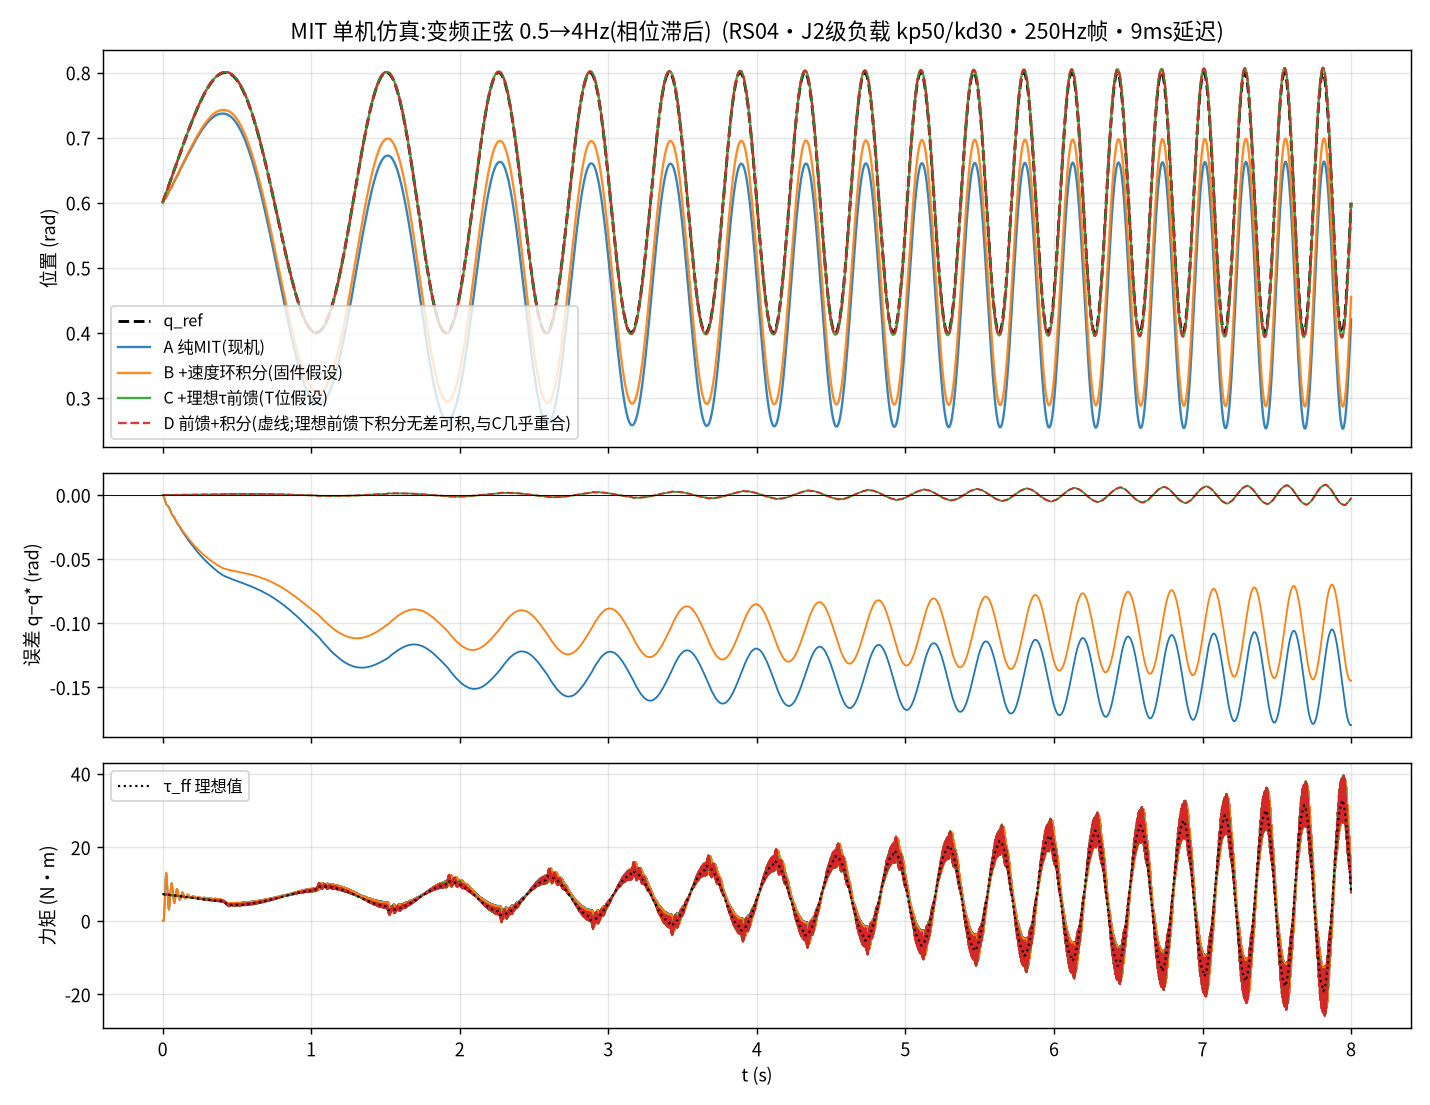
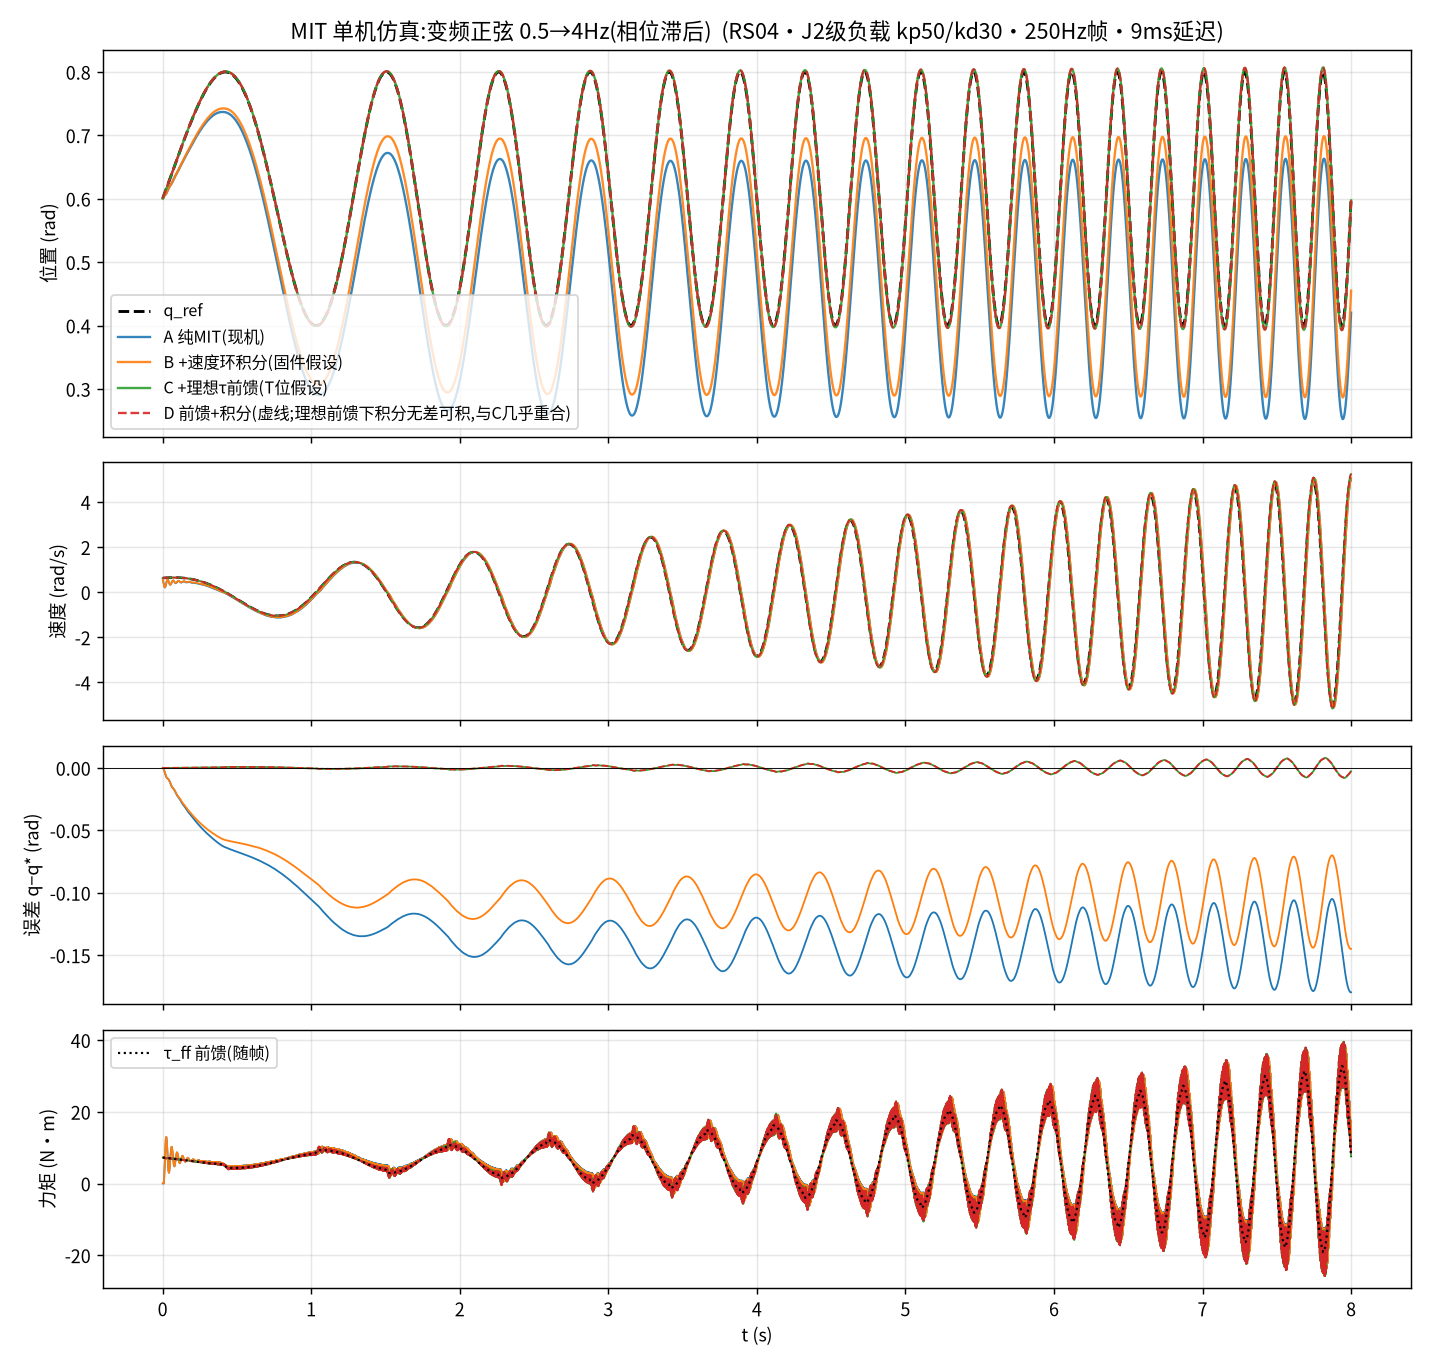
MIT单机仿真加速度行+前馈辨识误差注入:plot改四行图(位置/速度/误差/力矩,指标表加速度RMS);mit_motor_sim增ff_J/ff_b/ff_tc/ff_G辨识值组(-1=跟随真值),mit_ff_err.py跨目录对比(含速度误差行+跨配置一致性自检);结果:J−20%几乎无害(反馈环自吃瞬态缺矩,swing峰差1.69→2.11°),G+20%下垂1.61°≈ΔG/kp符号翻转,组合20%误差下C仍较A好4-5×(chirp 27.8 vs 136mrad);积分兜底=按刚度比收ki/(kp+ki)≈23%常值误差,对惯量误差≈0——A实验优先级指向:重力辨识精度>惯量(

Changed region(s): [[0.0, 0.0, 1.0, 0.9846], [0.1231, 0.5846, 0.1538, 0.6154]]

diff --git a/sckd_sim/python/tools/mit_ff_err.py b/sckd_sim/python/tools/mit_ff_err.py
@@ -1,0 +1,119 @@
+#!/usr/bin/env python3
+# 前馈辨识误差×积分兜底对比(2026-10-18):读多组 mit_motor_sim 输出目录
+# (标称=理想前馈;fferr_*=ff_J/ff_G 注入辨识误差),三行图——
+# ①swing 位置误差 ②swing 速度误差 ③step 全程误差(重力误差=保持段偏移)
+# 叠加各配置 C/D(基线只画 C,D≈C 重合;误差组 C 实线+D 虚线同色;
+# B 无前馈做橙色参考),打印指标表:step 保持段下垂/swing 峰差/
+# swing 速度峰差/chirp 位置RMS(变体×配置)。
+# 用法:mit_ff_err.py out.png 基线目录 标签=目录 [标签=目录 ...]
+# 例:mit_ff_err.py eval/reports/mit_ff_err.png eval/reports \
+#       "J−20%=eval/reports/fferr_J16" "G+20%=eval/reports/fferr_G96" \
+#       "组合=eval/reports/fferr_both"
+import sys
+
+import matplotlib
+matplotlib.use("Agg")
+import matplotlib.font_manager as fm
+for _f in ("/usr/share/fonts/opentype/noto/NotoSansCJK-Regular.ttc",
+           "/usr/share/fonts/opentype/noto/NotoSansCJK-Bold.ttc"):
+    try:
+        fm.fontManager.addfont(_f)
+    except Exception:
+        pass
+matplotlib.rcParams["font.family"] = ["Noto Sans CJK SC", "DejaVu Sans"]
+matplotlib.rcParams["axes.unicode_minus"] = False
+import matplotlib.pyplot as plt
+import numpy as np
+
+ERRC = ["C4", "C5", "C6"]  # 误差组配色(基线 C=绿 C2,B 参考=C1 橙)
+VN = [("a", "A"), ("b", "B"), ("c", "C"), ("d", "D")]
+
+
+def load(d, scen):
+    return np.genfromtxt(f"{d}/mit_{scen}.csv", delimiter=",", names=True)
+
+
+def metrics(dirs):
+    """指标:step 4 保持段均值最大|下垂|°;swing[0.8,3.74] 峰差°/速度峰差;
+    chirp RMS mrad。返回 {标签: {变体: (sag, pk, vpk, rms)}}"""
+    out = {}
+    for lab, dd in dirs:
+        st, sw, ch = load(dd, "step"), load(dd, "swing"), load(dd, "chirp")
+        t = st["t"]
+        m = {}
+        for tag, _ in VN:
+            sag = max(abs(np.degrees(np.mean(st[f"err_{tag}"][(t >= t1 - 0.3) & (t <= t1 - 0.01)])))
+                      for t1 in (1.0, 3.0, 5.0, 6.0))
+            msw = (sw["t"] >= 0.8) & (sw["t"] <= 3.74)
+            pk = np.degrees(np.max(np.abs(sw[f"err_{tag}"][msw])))
+            vpk = np.max(np.abs(sw[f"dq_{tag}"][msw] - sw["dq_ref"][msw]))
+            rms = float(np.sqrt(np.mean(ch[f"err_{tag}"][ch["t"] >= 0.3] ** 2))) * 1e3
+            m[tag] = (sag, pk, vpk, rms)
+        out[lab] = m
+    return out
+
+
+def main(out_png, base_dir, pairs):
+    dirs = [("理想", base_dir)] + pairs
+    fig, (a1, a2, a3) = plt.subplots(3, 1, figsize=(11, 11),
+                                     gridspec_kw={"height_ratios": [2, 2, 2]})
+    sw_b, st_b = load(base_dir, "swing"), load(base_dir, "step")
+
+    # ①swing 位置误差 ②swing 速度误差
+    for ax, is_vel, ylab in ((a1, False, "swing 位置误差 q−q* (rad)"),
+                             (a2, True, "swing 速度误差 dq−dq* (rad/s)")):
+        ax.axhline(0, color="k", lw=0.5)
+        eb = sw_b["err_b"] if not is_vel else (sw_b["dq_b"] - sw_b["dq_ref"])
+        ax.plot(sw_b["t"], eb, color="C1", lw=0.9, alpha=0.55,
+                label="B 无前馈(参考)")
+        cb = sw_b["err_c"] if not is_vel else (sw_b["dq_c"] - sw_b["dq_ref"])
+        ax.plot(sw_b["t"], cb, color="C2", lw=1.5, label="C 理想前馈")
+        for i, (lab, dd) in enumerate(pairs):
+            sw = load(dd, "swing")
+            c = ERRC[i % len(ERRC)]
+            cc = sw["err_c"] if not is_vel else (sw["dq_c"] - sw["dq_ref"])
+            dd_ = sw["err_d"] if not is_vel else (sw["dq_d"] - sw["dq_ref"])
+            ax.plot(sw["t"], cc, color=c, lw=1.2, label=f"C {lab}")
+            ax.plot(sw["t"], dd_, color=c, ls="--", lw=1.2, alpha=0.75,
+                    label=f"D {lab}")
+        ax.set_ylabel(ylab); ax.grid(alpha=0.3); ax.legend(fontsize=8, ncol=3)
+    # ③step 全程误差(重力误差→保持段偏移)
+    a3.axhline(0, color="k", lw=0.5)
+    a3.plot(st_b["t"], st_b["err_b"], color="C1", lw=0.9, alpha=0.55,
+            label="B 无前馈(参考)")
+    a3.plot(st_b["t"], st_b["err_c"], color="C2", lw=1.5, label="C 理想前馈")
+    for i, (lab, dd) in enumerate(pairs):
+        st = load(dd, "step")
+        c = ERRC[i % len(ERRC)]
+        a3.plot(st["t"], st["err_c"], color=c, lw=1.2, label=f"C {lab}")
+        a3.plot(st["t"], st["err_d"], color=c, ls="--", lw=1.2, alpha=0.75,
+                label=f"D {lab}")
+    a3.set_ylabel("step 位置误差 (rad)"); a3.set_xlabel("t (s)")
+    a3.grid(alpha=0.3); a3.legend(fontsize=8, ncol=3)
+    a1.set_title("前馈辨识误差下的积分兜底量化(mit_motor_sim,J=0.2 G=8 kp50/kd30)")
+    fig.tight_layout()
+    fig.savefig(out_png, dpi=130)
+    plt.close(fig)
+
+    m = metrics(dirs)
+    print(f"{'配置':8s} {'变体':4s} {'下垂°':>7s} {'swing峰差°':>9s} "
+          f"{'速度峰差':>8s} {'chirp RMS mrad':>13s}")
+    for lab, _ in dirs:
+        for tag, vn in VN:
+            sag, pk, vpk, rms = m[lab][tag]
+            print(f"{lab:8s} {vn:4s} {sag:7.2f} {pk:9.2f} {vpk:8.3f} {rms:13.1f}")
+    # 一致性自检:A/B 不依赖前馈,各配置应完全一致
+    ref = m["理想"]["a"][0]
+    dif = max(abs(m[l]["a"][0] - ref) for l, _ in dirs)
+    print(f"[check] A 下垂跨配置最大差 {dif:.3f}°(应=0)")
+    print("saved:", out_png)
+
+
+if __name__ == "__main__":
+    if len(sys.argv) < 4:
+        sys.exit(__doc__)
+    pairs = []
+    for a in sys.argv[3:]:
+        eq = a.find("=")
+        pairs.append((a[:eq], a[eq + 1:]))
+    main(sys.argv[1], sys.argv[2], pairs)

diff --git a/sckd_sim/python/tools/plot_mit_motor.py b/sckd_sim/python/tools/plot_mit_motor.py
@@ -58,15 +58,19 @@ def lag_est(ref, y):
 
 def fig_scenario(d, scen, out_dir):
     t, qr = d["t"], d["q_ref"]
-    fig, (ax1, ax2, ax3) = plt.subplots(3, 1, figsize=(11, 8.5), sharex=True,
-                                        gridspec_kw={"height_ratios": [3, 2, 2]})
+    fig, (ax1, axv, ax2, ax3) = plt.subplots(
+        4, 1, figsize=(11, 10.5), sharex=True,
+        gridspec_kw={"height_ratios": [3, 2, 2, 2]})
     ax1.plot(t, qr, "k--", lw=1.6, label="q_ref")
+    axv.plot(t, d["dq_ref"], "k--", lw=1.4, label="dq_ref")
     for tag, lab, c, ls in VAR:
         ax1.plot(t, d[f"q_{tag}"], c, ls=ls, lw=1.3, alpha=0.9, label=lab)
+        axv.plot(t, d[f"dq_{tag}"], c, ls=ls, lw=1.0)
         ax2.plot(t, d[f"err_{tag}"], c, ls=ls, lw=1.0, label=lab)
         ax3.plot(t, d[f"tau_{tag}"], c, ls=ls, lw=1.0)
-    ax3.plot(t, d["tau_ff_ideal"], "k:", lw=1.2, label="τ_ff 理想值")
+    ax3.plot(t, d["tau_ff_ideal"], "k:", lw=1.2, label="τ_ff 前馈(随帧)")
     ax1.set_ylabel("位置 (rad)"); ax1.legend(loc="best", fontsize=9); ax1.grid(alpha=0.3)
+    axv.set_ylabel("速度 (rad/s)"); axv.grid(alpha=0.3)
     ax2.set_ylabel("误差 q−q* (rad)"); ax2.grid(alpha=0.3)
     ax2.axhline(0, color="k", lw=0.5)
     ax3.set_ylabel("力矩 (N·m)"); ax3.set_xlabel("t (s)")
@@ -79,7 +83,7 @@ def fig_scenario(d, scen, out_dir):
 
 
 def main(csv_dir, out_dir):
-    print(f"{'场景':6s} {'变体':34s} {'RMS rad':>8s} {'max rad':>8s}")
+    print(f"{'场景':6s} {'变体':34s} {'RMS rad':>8s} {'max rad':>8s} {'速度RMS':>8s}")
     for scen in ("step", "chirp", "swing"):
         d = load(f"{csv_dir}/mit_{scen}.csv")
         t, qr = d["t"], d["q_ref"]
@@ -89,7 +93,8 @@ def main(csv_dir, out_dir):
             err = d[f"err_{tag}"]
             errs[tag] = err
             r, mx = rms_max(t, err)
-            print(f"{scen:6s} {lab:34s} {r:8.4f} {mx:8.4f}")
+            vr = float(np.sqrt(np.mean((d[f"dq_{tag}"][t >= 0.3] - d["dq_ref"][t >= 0.3]) ** 2)))
+            print(f"{scen:6s} {lab:34s} {r:8.4f} {mx:8.4f} {vr:8.4f}")
         if scen == "step":  # 各保持段末 300ms 稳态下垂(°)
             print("  保持段稳态误差(°, 末300ms均值):")
             for name, t1 in (("hold0.6@0.7-1.0s", 1.0), ("hold−0.4@2.7-3.0s", 3.0),

diff --git a/sckd_sim/cpp/apps/mit_motor_sim.cpp b/sckd_sim/cpp/apps/mit_motor_sim.cpp
@@ -67,6 +67,9 @@ struct Cfg {
   double ti_max = 12.0;  // 积分项力矩限幅 N·m
   int delay_ms = 9;      // 命令延迟(motors.json)
   int frame_ms = 4;      // 发帧周期 4ms=250Hz
+  // 前馈辨识值(-1=跟随对象真值=理想前馈;注入辨识误差做 B 实验用:
+  // 真机上这组来自 A 实验辨识表,与对象真值的偏差即辨识误差)
+  double ffJ = -1, ffb = -1, fftc = -1, ffG = -1;
 };
 
 struct Plant {
@@ -194,9 +197,12 @@ void run_scenario(const std::string& sc, const std::string& outdir,
   for (int ms = 1; ms <= n_ms && f; ++ms) {
     const double t = ms * 1e-3;
     const auto [qr, dqr, ddqr] = RefAt(sc, t);
-    // 理想 τ 前馈(参考逆动力学;C/D 随帧量化下发,A/B 无槽不发)
-    const double tff = c.J * ddqr + c.b * dqr + c.tc * std::tanh(dqr / 0.05) +
-                       c.G * std::cos(qr);
+    // τ 前馈(参考逆动力学,参数取辨识值组——缺省=真值即理想前馈;
+    // C/D 随帧量化下发,A/B 无槽不发;CSV 的 tau_ff_ideal 列=此随帧值)
+    const double fJ = c.ffJ < 0 ? c.J : c.ffJ, fb = c.ffb < 0 ? c.b : c.ffb;
+    const double ftc = c.fftc < 0 ? c.tc : c.fftc, fG = c.ffG < 0 ? c.G : c.ffG;
+    const double tff = fJ * ddqr + fb * dqr + ftc * std::tanh(dqr / 0.05) +
+                       fG * std::cos(qr);
     if ((ms - 1) % c.frame_ms == 0) {  // 250Hz 发帧(量化)
       for (int k = 0; k < kNV; ++k) {
         dr[k].fr.p = quant16(qr, -12.57, 12.57);
@@ -238,6 +244,8 @@ int main(int argc, char** argv) {
     else if (k == "ki") c.ki = v; else if (k == "ti_max") c.ti_max = v;
     else if (k == "delay_ms") c.delay_ms = static_cast<int>(v);
     else if (k == "frame_ms") c.frame_ms = static_cast<int>(v);
+    else if (k == "ff_J") c.ffJ = v; else if (k == "ff_b") c.ffb = v;
+    else if (k == "ff_tc") c.fftc = v; else if (k == "ff_G") c.ffG = v;
   }
   std::printf("[cfg] J=%.3f b=%.3f tc=%.2f G=%.1f kp=%.0f kd=%.0f ki=%.1f "
               "ti_max=%.1f delay=%dms frame=%dms\n",
